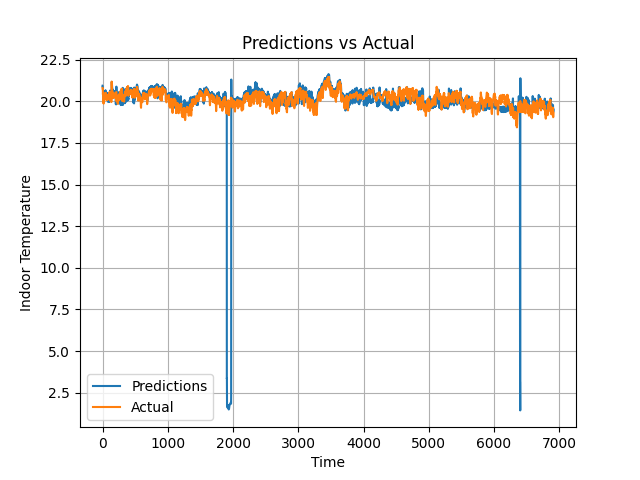
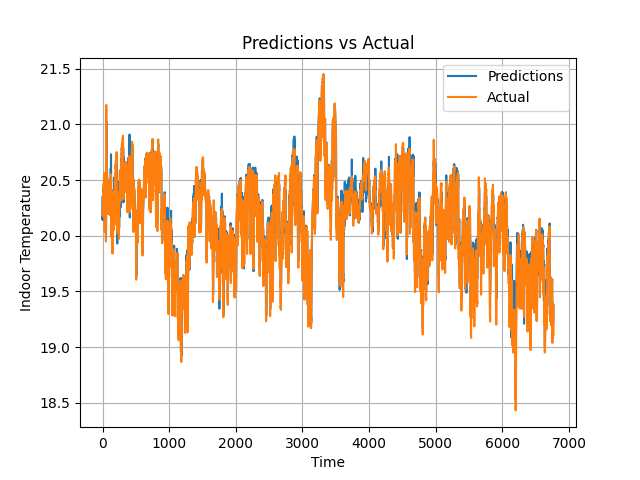
fixed issue with data

diff --git a/nist_dataset.py b/nist_dataset.py
@@ -41,6 +41,7 @@ df = df[(df.IndoorTemp >= 10) & (df.IndoorTemp <= 30)]
 df = df[(df.OutdoorTemp >= -50) & (df.OutdoorTemp <= 50)]
 
 df = df[df.IndoorTemp.diff().abs() <= MAX_TEMP_DELTA & (df.OutdoorTemp.diff().abs() <= MAX_TEMP_DELTA)]
+df = df[df.PowerConsumption > 0]
 
 df = df.dropna()
 
